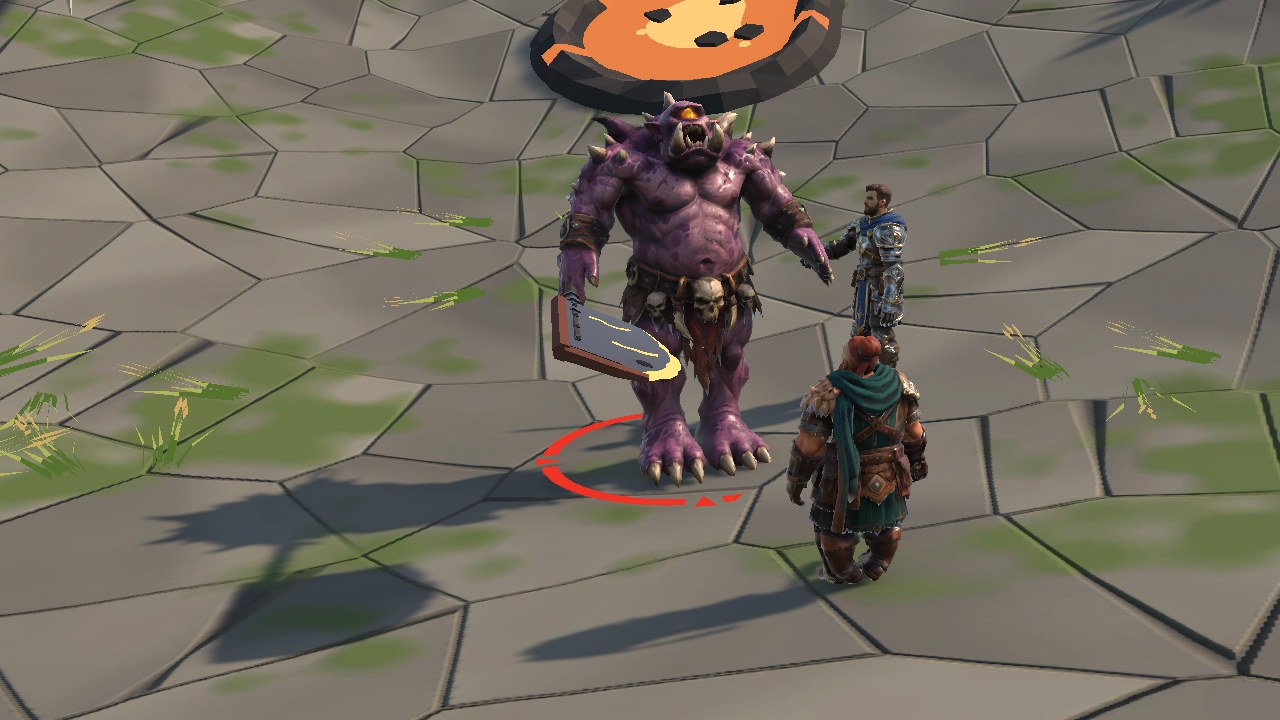
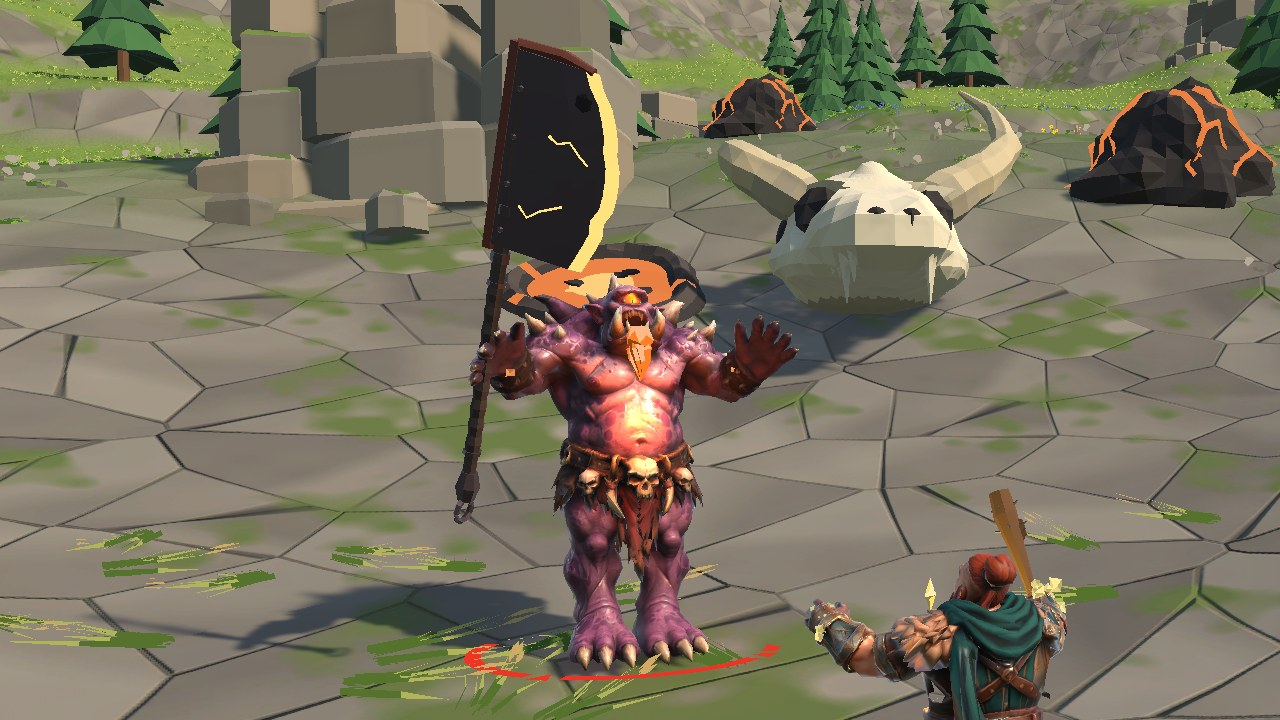
README: more pictures of Ruukhar
Ruukhar up close, his Cinder Quake winding up (cleaver raised, fire in his chest) and the wave of fire running
out past a warden.

diff --git a/README.md b/README.md
@@ -78,12 +78,20 @@ Everything for the first real zone is in; what is left is putting a realm online
     <td><sub><b>The heroes.</b> New characters start in their class's look: the warrior's blue tabard and cowl, the warden's leather jerkin with a fur collar and belt flaps over a teal shirt, the shardmage's long violet coat. Captain Brand wears the full knight's plate and the star shield. Sculpted faces, hair and beards, shaded smoothly, in three levels of detail.</sub></td>
   </tr>
   <tr>
-    <td><img src="docs/images/phase5-ruukhar.jpg" alt="Ruukhar the Slagborn, a hulking one-eyed brute with purple hide, horns down his back, tusks and skulls on his belt, a great cleaver with a glowing edge in his hand, towers over a warrior and a red-haired Korrin warden in the Cinder Cut, a slag pool behind him"></td>
+    <td><img src="docs/images/phase5-ruukhar.jpg" alt="Ruukhar the Slagborn, a hulking one-eyed brute with purple hide, horns and tusks, holds his great cleaver up high, fire glowing in his chest, while a red-haired Korrin warden fights him in the Cinder Cut; a slag pool and a giant horned skull behind him"></td>
     <td><img src="docs/images/phase5-mirewatch.jpg" alt="The square of Mirewatch: timber houses with horned gables, the well, the inn, market stalls and NPCs with symbols over their heads"></td>
   </tr>
   <tr>
-    <td><sub><b>Ruukhar the Slagborn.</b> A warrior and a warden take on the brute of the Cinder Cut, a model from Tripo twice their height. When he raises his cleaver, his Cinder Quake runs out as a wave of fire and embers: get out of reach while he winds up.</sub></td>
+    <td><sub><b>Ruukhar the Slagborn.</b> The brute of the Cinder Cut, a model from Tripo twice a hero's height, winds up his Cinder Quake: the cleaver goes up and fire glows in his chest. Two and a half seconds to get out of reach.</sub></td>
     <td><sub><b>The square of Mirewatch.</b> Timber grove houses around the well and the inn. Symbols and titles show what the NPCs do (Gerta the weaponsmith, Holt's general goods); the minimap marks the quests.</sub></td>
+  </tr>
+  <tr>
+    <td><img src="docs/images/phase5-ruukhar-closeup.jpg" alt="Ruukhar up close: a one-eyed brute with purple mottled hide, tusks, horns along his shoulders, leather bracers and a belt hung with skulls and fangs over a torn loincloth, his great cleaver hanging from one hand, a red-haired Korrin warden beside him reaching to his waist"></td>
+    <td><img src="docs/images/phase5-ruukhar-quake.jpg" alt="Ruukhar brings his cleaver down in the Cinder Cut: a wide orange wave of fire runs out across the stone floor and past a Korrin warden, embers flying, slag heaps, rocks and a horned skull behind them"></td>
+  </tr>
+  <tr>
+    <td><sub><b>Ruukhar up close.</b> One eye, tusks, horns down his back and skulls on his belt, with the Slagborn Cleaver he drops in his fist. An unrigged Tripo model, rigged onto the heroes' skeleton and scaled up: he fights with their clips.</sub></td>
+    <td><sub><b>Cinder Quake.</b> The cleaver comes down and a wave of fire and embers runs out twelve meters, burning and slowing everyone it reaches. This warden was too slow.</sub></td>
   </tr>
   <tr>
     <td><img src="docs/images/phase5-reedfen.jpg" alt="A mage wading through the Reedfen marsh among reeds, a defeated mireling in the water"></td>
